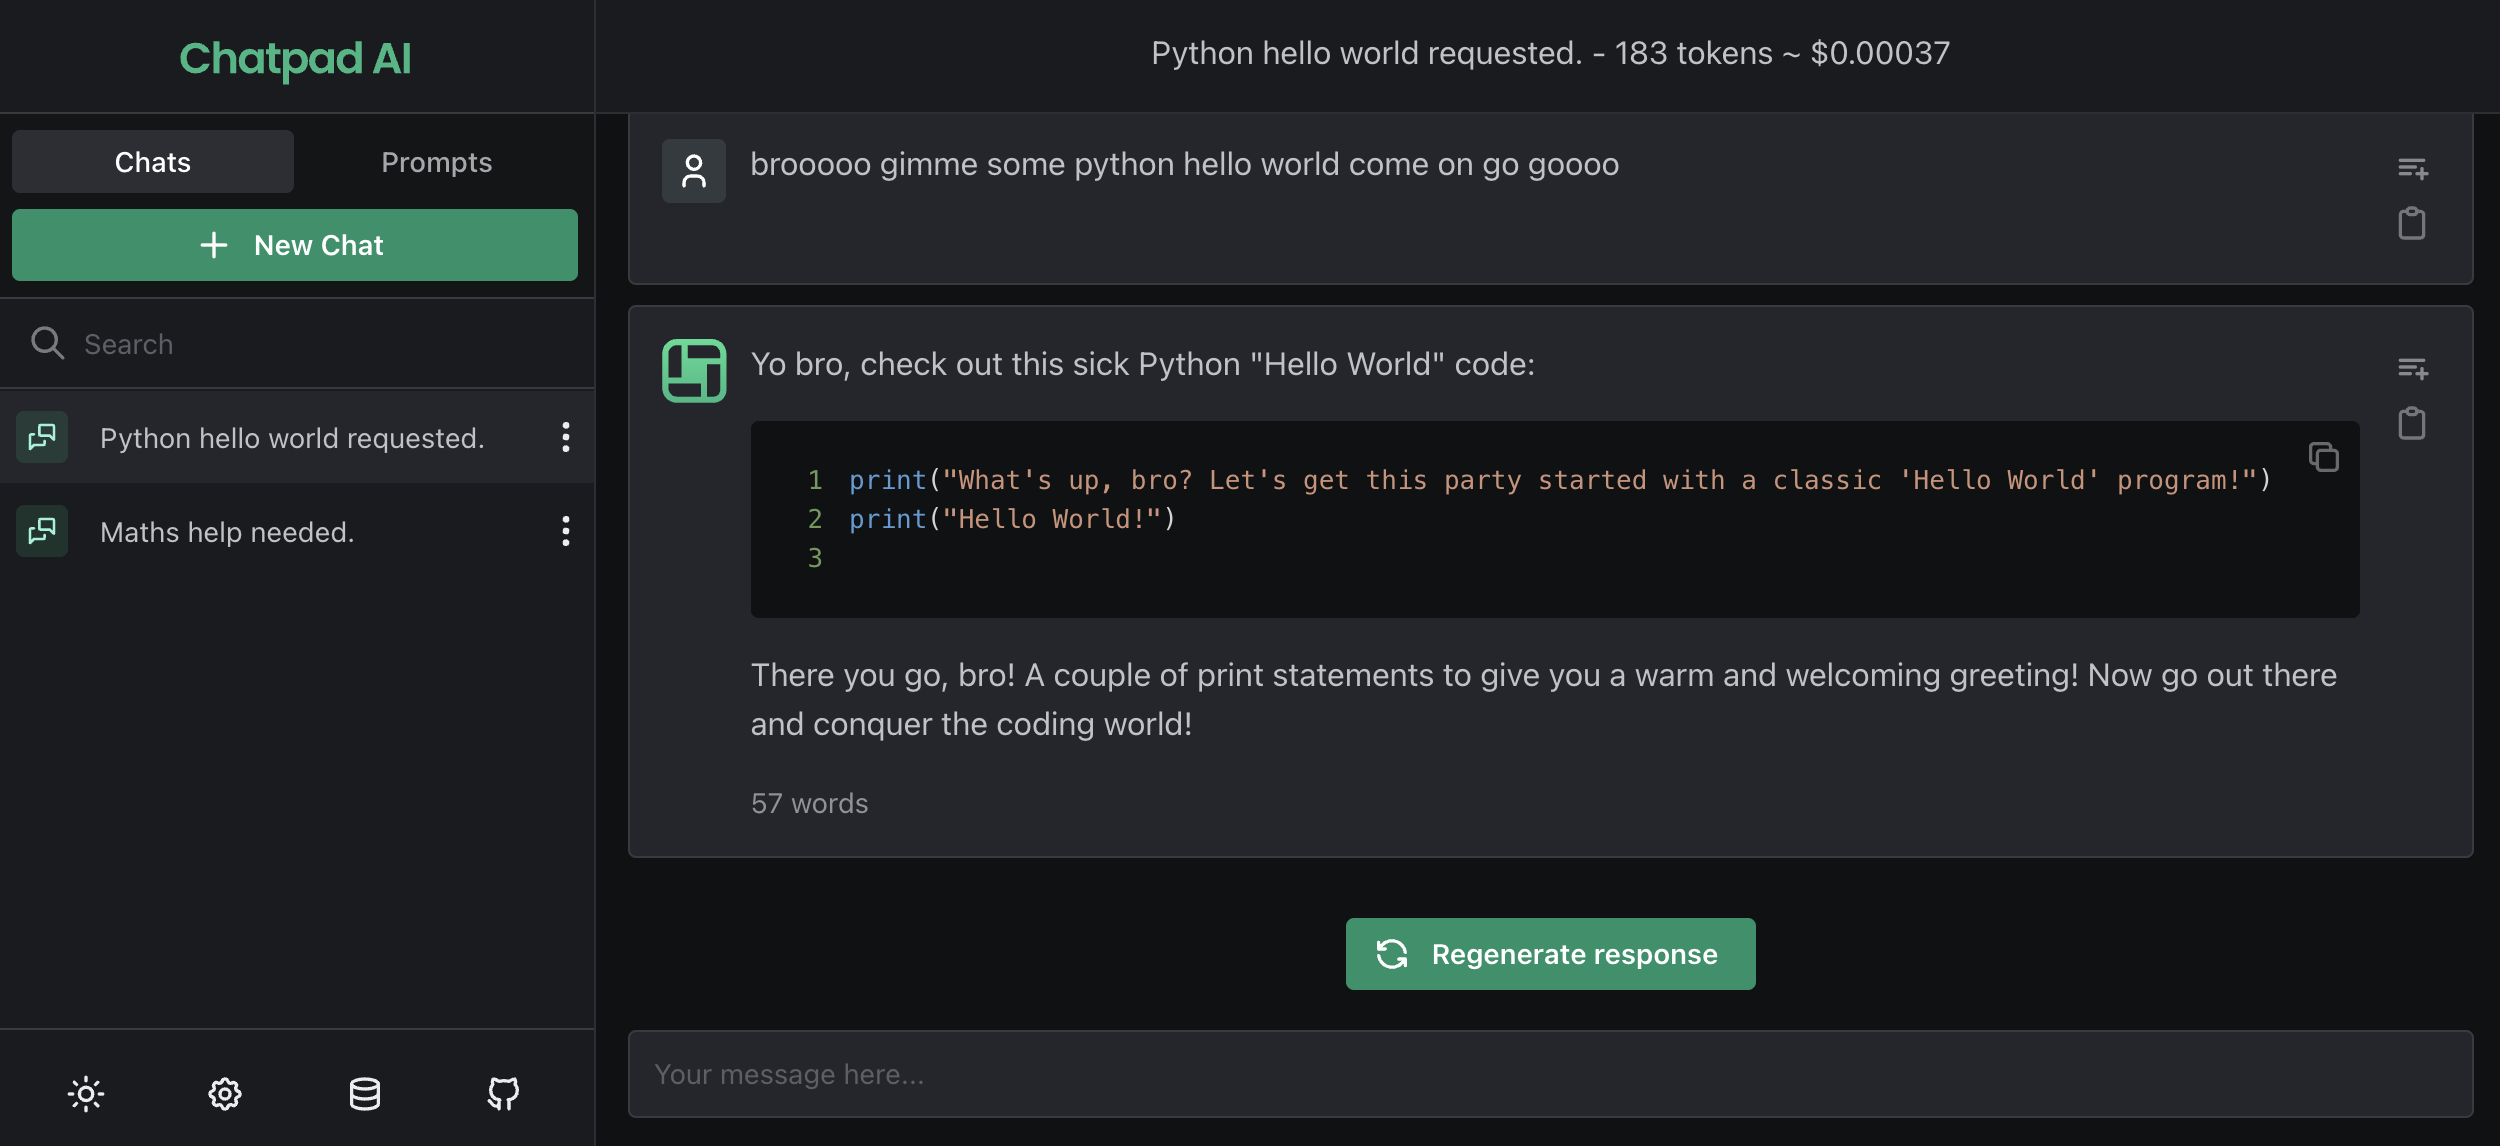
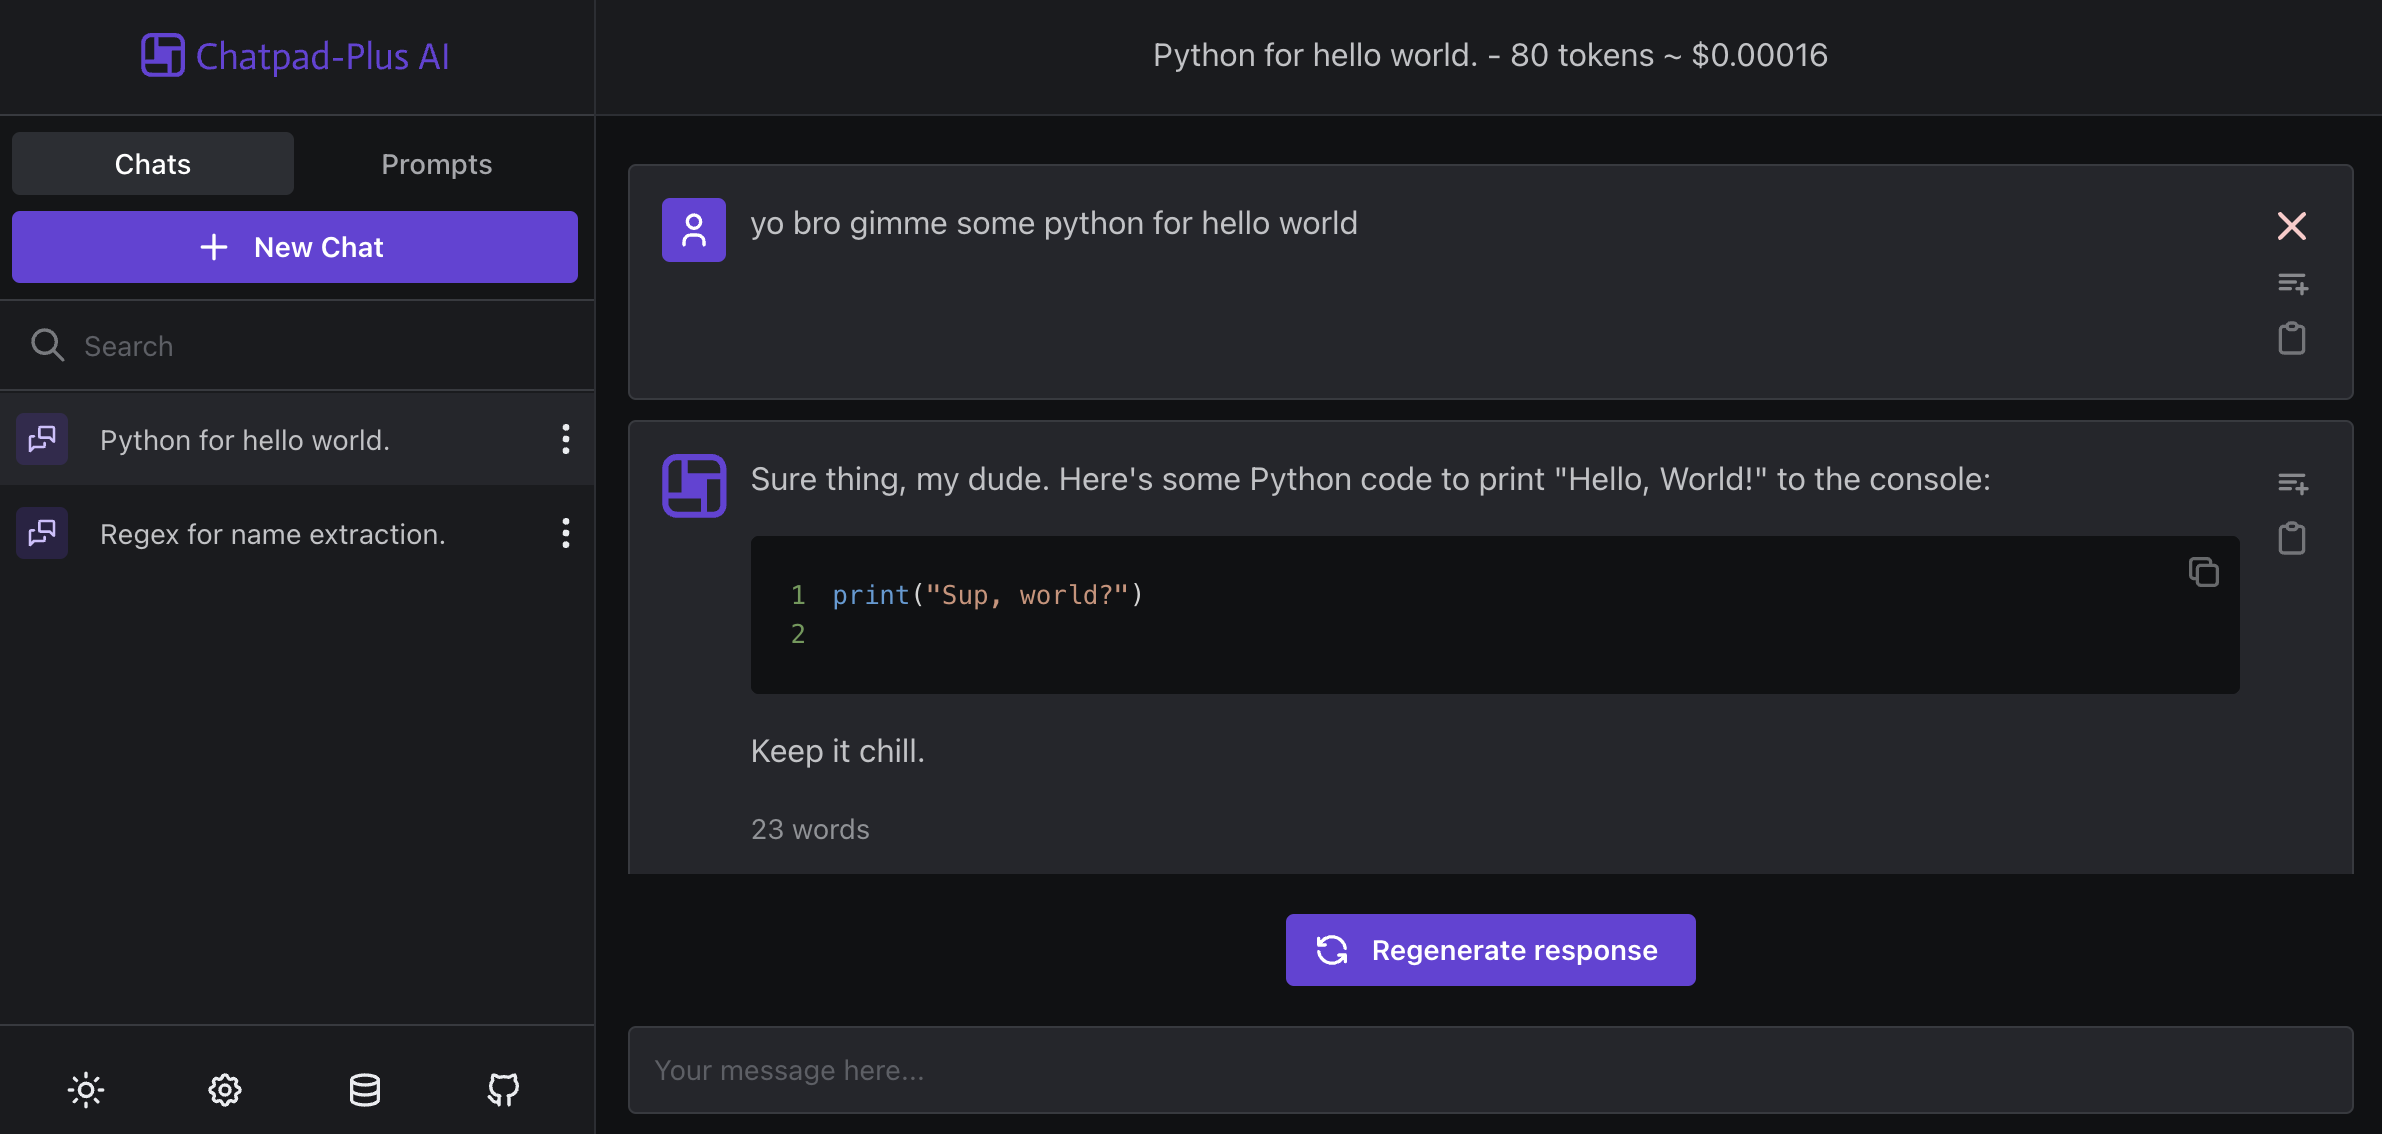
updated readme (#23)

diff --git a/README.md b/README.md
@@ -1,15 +1,16 @@
-![Chatpad-Plus AI](./banner.png)
-
 <h1 align="center">Chatpad-Plus AI</h1>
+
+![Chatpad-Plus AI](./banner.png)
 
 Based on the amazing [Chatpad](https://github.com/deiucanta/chatpad), Chatpad-Plus takes it one step further and adds functionalities such as:
 - Improved consistency on the personality of the AI responses
 - Improved markdown support with code highlighting depending on the code language
 - 'Stop' button for stopping the request if the reply is not relevant
 - 'Regenerate response' button for generating a different response for the last reply
-- Themes support (still work in progress!)
+- Added delete last message button
+- Themes support
 - Added install.sh file for easier local install
-- New 'bro talk' mode, for the lulz :D
+- New 'Real Bro' mode, for the lulz :D
 
 ---
 
